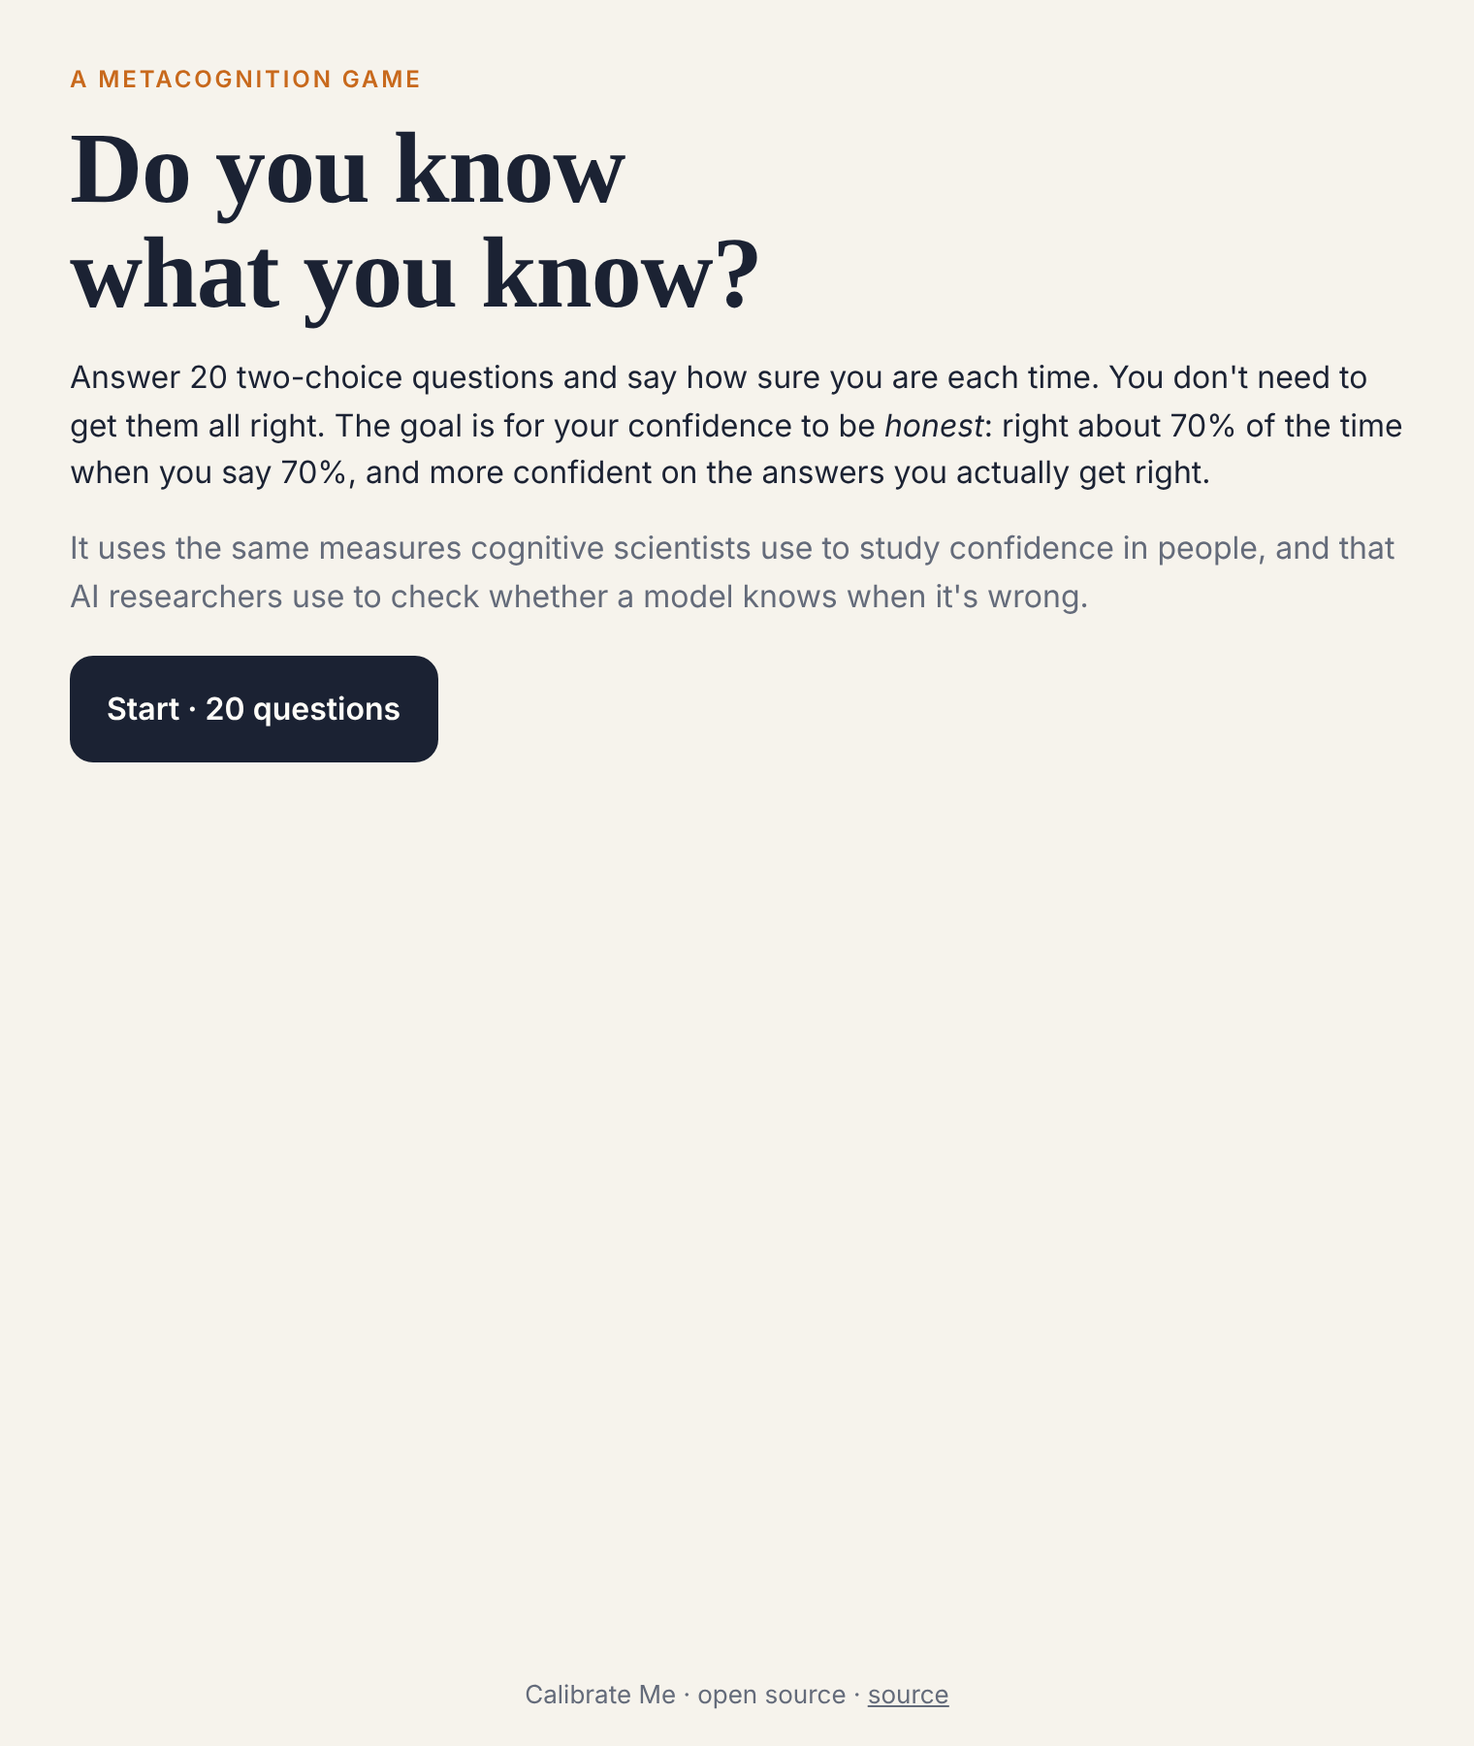
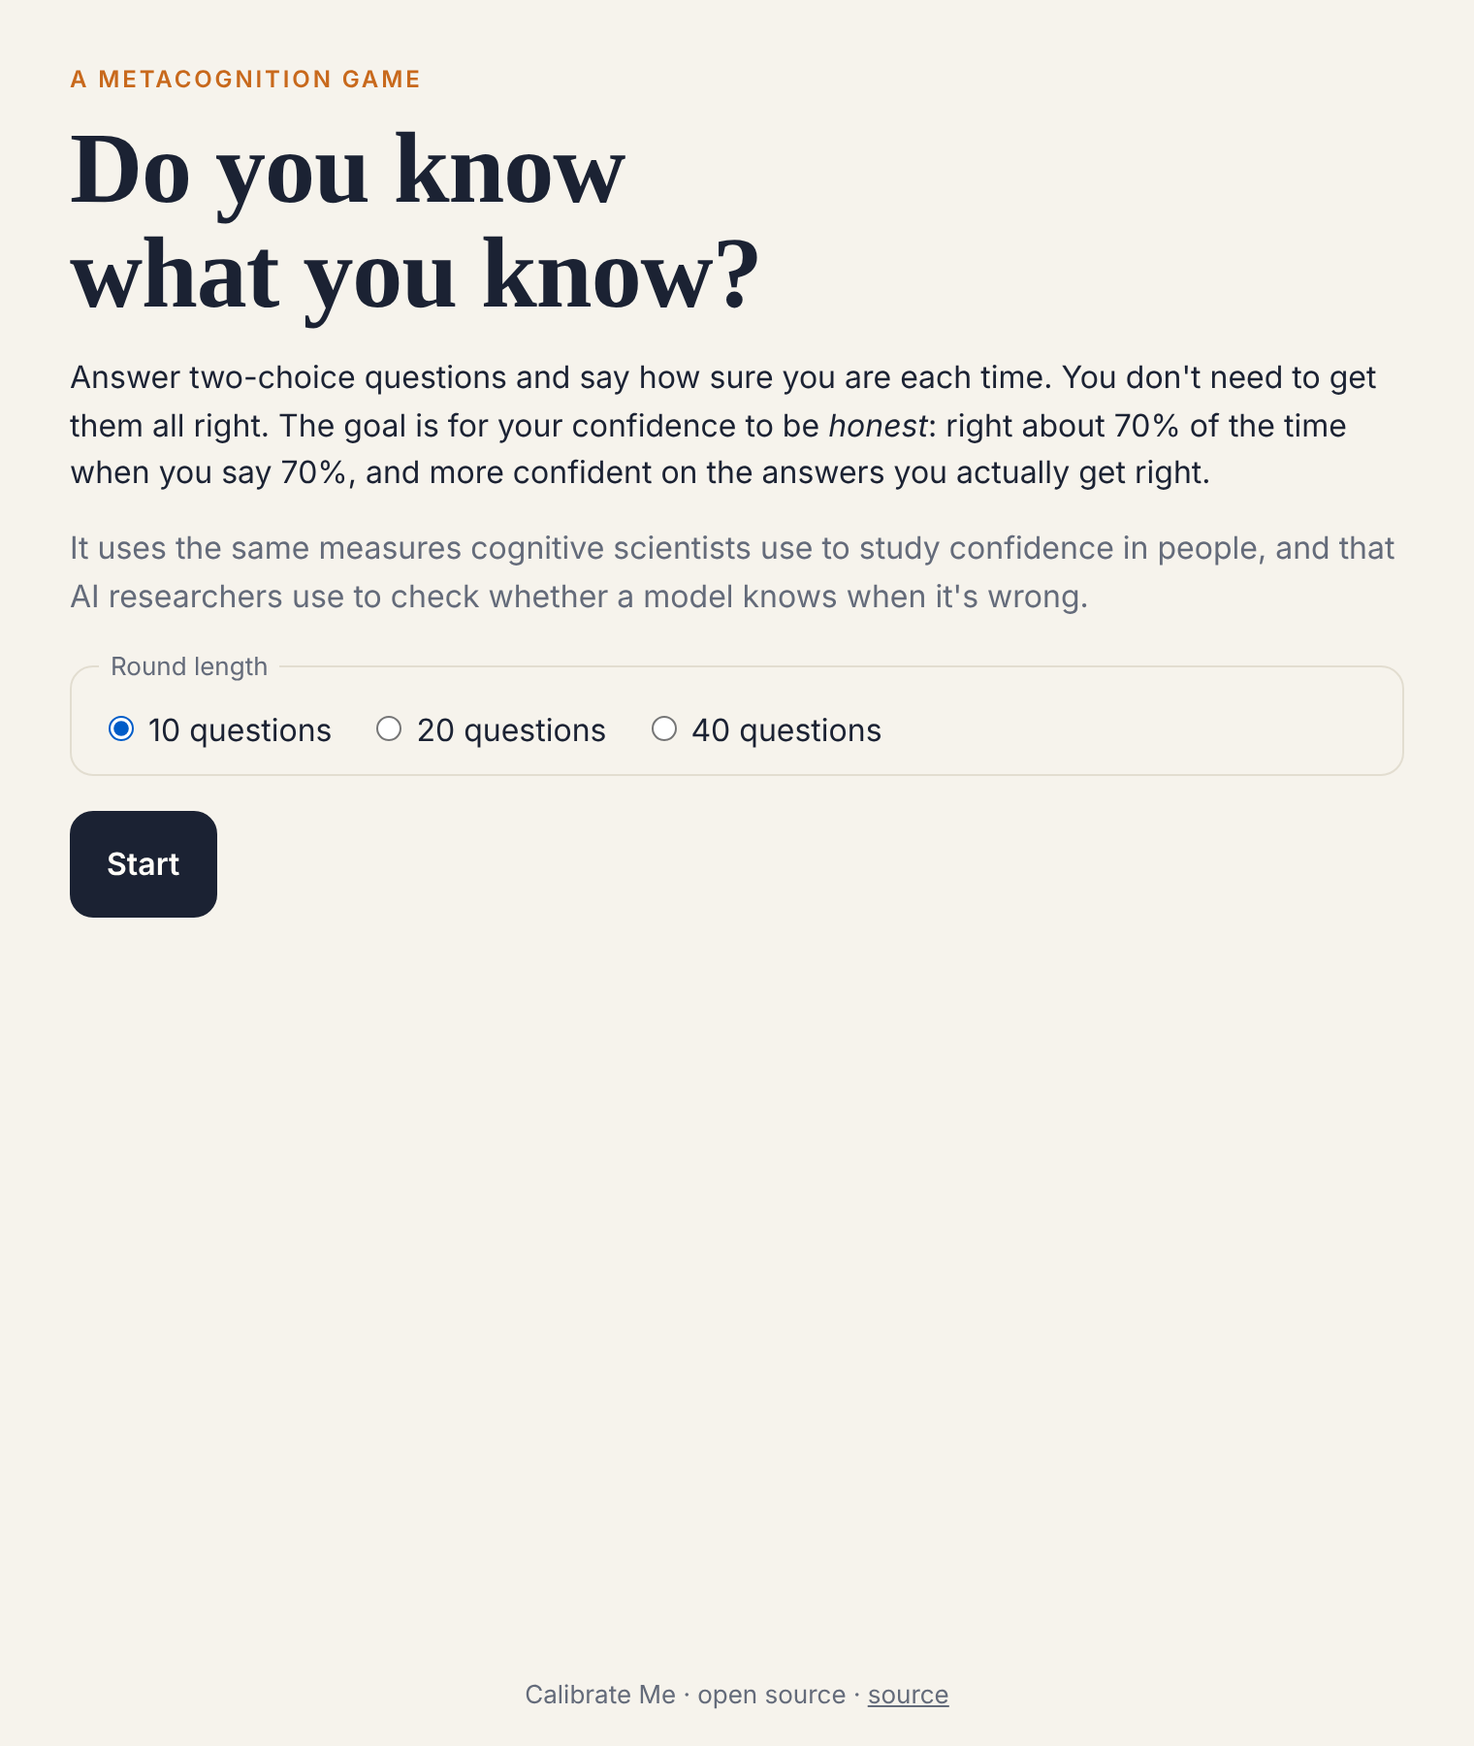
v0.2.0: new features and open-source project setup
Adds contributor guide, code of conduct, security policy, changelog,
citation file, issue and PR templates, linting and coverage in CI,
and the features listed in CHANGELOG.md.

Claude-Session: https://claude.ai/code/session_01NwVeTdaZV4hN2db4qB14kY

Changed region(s): [[0.0618, 0.1867, 0.9586, 0.2489], [0.0309, 0.3733, 0.402, 0.5289], [0.4638, 0.4044, 0.5875, 0.4356]]

diff --git a/app.js b/app.js
@@ -1,7 +1,9 @@
 import { QUESTIONS } from "./questions.js";
+import { decodeResult, encodeResult } from "./share.js";
 import { summarize, verdict } from "./stats.js";
 
-const ROUNDS = 20;
+const ROUND_OPTIONS = [10, 20, 40];
+let rounds = 20;
 const LEVELS = [0.5, 0.6, 0.7, 0.8, 0.9, 0.99];
 const STORE_KEY = "calibrate-me:sessions:v1";
 const app = document.getElementById("app");
@@ -46,20 +48,25 @@ function intro() {
   app.innerHTML = `
     <div class="kicker">A metacognition game</div>
     <h1>Do you know<br>what you know?</h1>
-    <p>Answer ${ROUNDS} two-choice questions and say how sure you are each time. You don't need to get them all right.
+    <p>Answer two-choice questions and say how sure you are each time. You don't need to get them all right.
        The goal is for your confidence to be <em>honest</em>: right about 70% of the time when you say 70%,
        and more confident on the answers you actually get right.</p>
     <p class="muted">It uses the same measures cognitive scientists use to study confidence in people, and that AI researchers use to check whether a model knows when it's wrong.</p>
-    <div class="actions"><button class="primary" id="start">Start · ${ROUNDS} questions</button></div>
+    <fieldset class="rounds"><legend>Round length</legend>
+      ${ROUND_OPTIONS.map((n) => `<label><input type="radio" name="rounds" value="${n}" ${n === rounds ? "checked" : ""}> ${n} questions</label>`).join("")}
+    </fieldset>
+    <div class="actions"><button class="primary" id="start">Start</button></div>
     ${last ? `<p class="muted" style="margin-top:18px">Last time: ${pct(last.accuracy)} correct, ${
       last.overconfidence > 0 ? "overconfident" : "underconfident"} by ${Math.round(Math.abs(last.overconfidence) * 100)} points
       (${sessions.length} session${sessions.length > 1 ? "s" : ""} on this device).</p>` : ""}`;
+  app.querySelectorAll('input[name="rounds"]').forEach((r) => (r.onchange = () => (rounds = +r.value)));
   document.getElementById("start").onclick = start;
 }
 
 function start() {
   state = {
-    items: shuffle(QUESTIONS).slice(0, ROUNDS).map(([q, a, b, correct, why]) => {
+    rounds,
+    items: shuffle(QUESTIONS).slice(0, rounds).map(([q, a, b, correct, why]) => {
       const flip = Math.random() < 0.5; // randomize option order
       return { q, options: flip ? [b, a] : [a, b], correct: flip ? 1 - correct : correct, why };
     }),
@@ -76,31 +83,32 @@ function question() {
   const answered = state.revealed;
   const t = state.trials[state.i];
   app.innerHTML = `
-    <div class="progress"><div style="width:${(state.i / ROUNDS) * 100}%"></div></div>
-    <div class="qmeta"><span>Question ${state.i + 1} of ${ROUNDS}</span><span class="mono">keys: A / B, then 1–6</span></div>
-    <div class="question">${esc(it.q)}</div>
-    <div class="options">
+    <div class="progress"><div style="width:${(state.i / state.rounds) * 100}%"></div></div>
+    <div class="qmeta"><span>Question ${state.i + 1} of ${state.rounds}</span><span class="mono">keys: A / B, then 1–6</span></div>
+    <h2 class="question" id="q" tabindex="-1">${esc(it.q)}</h2>
+    <div class="options" role="group" aria-labelledby="q">
       ${it.options.map((o, k) => {
         let cls = state.choice === k ? "chosen" : "";
         if (answered) cls = k === it.correct ? "right" : state.choice === k ? "wrong" : "";
-        return `<button data-opt="${k}" class="${cls}" ${answered ? "disabled" : ""}><span class="key">${"AB"[k]}</span>${esc(o)}</button>`;
+        return `<button data-opt="${k}" class="${cls}" aria-pressed="${state.choice === k}" ${answered ? "disabled" : ""}><span class="key">${"AB"[k]}</span>${esc(o)}</button>`;
       }).join("")}
     </div>
     ${!answered ? `
     <div class="conf" ${state.choice === null ? 'style="opacity:.4"' : ""}>
       <div class="conf-label">How sure are you?</div>
-      <div class="conf-row">${LEVELS.map((l, k) => `<button data-conf="${k}" ${state.choice === null ? "disabled" : ""}>${Math.round(l * 100)}%</button>`).join("")}</div>
+      <div class="conf-row" role="group" aria-label="How sure are you?">${LEVELS.map((l, k) => `<button data-conf="${k}" ${state.choice === null ? "disabled" : ""}>${Math.round(l * 100)}%</button>`).join("")}</div>
       <div class="conf-ends"><span>pure guess</span><span>certain</span></div>
     </div>` : `
     <div class="feedback">
-      <strong class="${t.correct ? "good" : "bad"}">${t.correct ? "Correct" : "Not quite"}</strong>
+      <strong role="status" class="${t.correct ? "good" : "bad"}">${t.correct ? "Correct" : "Not quite"}</strong>
       <span class="muted"> · you said ${Math.round(t.confidence * 100)}%</span>
       <div style="margin-top:6px">${esc(it.why)}</div>
     </div>
-    <div class="actions"><button class="primary" id="next">${state.i + 1 === ROUNDS ? "See results" : "Next"}</button></div>`}`;
+    <div class="actions"><button class="primary" id="next">${state.i + 1 === state.rounds ? "See results" : "Next"}</button></div>`}`;
 
   app.querySelectorAll("[data-opt]").forEach((b) => (b.onclick = () => choose(+b.dataset.opt)));
   app.querySelectorAll("[data-conf]").forEach((b) => (b.onclick = () => commit(LEVELS[+b.dataset.conf])));
+  if (!answered && state.choice === null) document.getElementById("q").focus({ preventScroll: true });
   const next = document.getElementById("next");
   if (next) {
     next.onclick = advance;
@@ -127,12 +135,12 @@ function advance() {
   state.i += 1;
   state.choice = null;
   state.revealed = false;
-  if (state.i >= ROUNDS) results();
+  if (state.i >= state.rounds) results();
   else question();
 }
 
 document.addEventListener("keydown", (e) => {
-  if (!state || state.i >= ROUNDS) return;
+  if (!state || state.i >= state.rounds) return;
   const k = e.key.toLowerCase();
   if (!state.revealed && (k === "a" || k === "b")) choose(k === "a" ? 0 : 1);
   else if (!state.revealed && /^[1-6]$/.test(k)) commit(LEVELS[+k - 1]);
@@ -203,12 +211,48 @@ function results() {
       (type-2 AUROC, also called metacognitive sensitivity) asks whether you were more confident on the answers you got right than on the ones you got wrong.
       You can be perfectly calibrated with no discrimination at all, by saying 70% on everything when you get 70% right. Good judgment needs both.</p>
       <p>These are the same measures used to study confidence in people and to check whether AI models know when they're wrong.
-      With ${ROUNDS} questions they're rough; play a few rounds to see a trend.</p>
+      With ${state.rounds} questions they're rough; play a few rounds to see a trend.</p>
       <p>Reliability ${num(s.reliability, 3)} · resolution ${num(s.resolution, 3)} · uncertainty ${num(s.uncertainty, 3)} (Murphy decomposition of the Brier score).</p>
     </details>
-    <div class="actions"><button class="primary" id="again">Play again</button><button id="home">Home</button></div>`;
+    <div class="actions"><button class="primary" id="again">Play again</button><button id="share">Copy share link</button><button id="home">Home</button></div>
+    <p class="muted" id="share-note" style="font-size:13px"></p>`;
+  document.getElementById("share").onclick = () => share(s);
   document.getElementById("again").onclick = start;
   document.getElementById("home").onclick = () => { state = null; intro(); };
 }
 
-intro();
+function shareUrl(s) {
+  return `${location.origin}${location.pathname}#r=${encodeResult(s)}`;
+}
+
+async function share(s) {
+  const url = shareUrl(s);
+  const note = document.getElementById("share-note");
+  try {
+    await navigator.clipboard.writeText(url);
+    note.textContent = "Link copied. It contains only your scores, not your answers.";
+  } catch {
+    note.innerHTML = `Copy this link: <input readonly value="${esc(url)}" style="width:100%" onfocus="this.select()">`;
+  }
+}
+
+function sharedView(s) {
+  app.innerHTML = `
+    <div class="kicker">A shared result</div>
+    <h2>${esc(verdict(s))}</h2>
+    <div class="stats">
+      <div class="stat"><div class="v">${pct(s.accuracy)}</div><div class="k">Accuracy</div><div class="h">over ${s.n} questions</div></div>
+      <div class="stat"><div class="v">${s.overconfidence >= 0 ? "+" : ""}${Math.round(s.overconfidence * 100)}</div><div class="k">Overconfidence</div><div class="h">confidence minus accuracy</div></div>
+      <div class="stat"><div class="v">${num(s.auroc2)}</div><div class="k">Discrimination</div><div class="h">type-2 AUROC</div></div>
+    </div>
+    <div class="panel">${calibrationChart(s.table)}</div>
+    <div class="actions"><button class="primary" id="try">Can you beat it? Play now</button></div>`;
+  document.getElementById("try").onclick = () => {
+    history.replaceState(null, "", location.pathname);
+    intro();
+  };
+}
+
+const sharedResult = location.hash.startsWith("#r=") ? decodeResult(location.hash.slice(3)) : null;
+if (sharedResult) sharedView(sharedResult);
+else intro();

diff --git a/share.js b/share.js
@@ -1,0 +1,56 @@
+// Encode a result summary into a URL fragment and back. Only aggregate scores
+// are included (no answers, no questions, nothing about the player), and the
+// fragment never reaches a server.
+
+const b64url = {
+  encode(str) {
+    const bytes = new TextEncoder().encode(str);
+    let bin = "";
+    for (const b of bytes) bin += String.fromCharCode(b);
+    return btoa(bin).replace(/\+/g, "-").replace(/\//g, "_").replace(/=+$/, "");
+  },
+  decode(s) {
+    const pad = s.replace(/-/g, "+").replace(/_/g, "/") + "===".slice((s.length + 3) % 4);
+    const bin = atob(pad);
+    return new TextDecoder().decode(Uint8Array.from(bin, (c) => c.charCodeAt(0)));
+  },
+};
+
+const r3 = (v) => (Number.isFinite(v) ? Math.round(v * 1000) / 1000 : null);
+
+export function encodeResult(s) {
+  const payload = {
+    v: 1,
+    n: s.n,
+    a: r3(s.accuracy),
+    c: r3(s.meanConfidence),
+    d: r3(s.auroc2),
+    b: r3(s.brier),
+    t: s.table.map((g) => [Math.round(g.confidence * 100), g.n, g.correct]),
+  };
+  return b64url.encode(JSON.stringify(payload));
+}
+
+export function decodeResult(str) {
+  let p;
+  try {
+    p = JSON.parse(b64url.decode(str));
+  } catch {
+    return null;
+  }
+  const isNum = (x) => typeof x === "number" && Number.isFinite(x);
+  if (!p || p.v !== 1 || !isNum(p.n) || p.n < 1 || p.n > 200 || !Array.isArray(p.t)) return null;
+  for (const k of ["a", "c", "b"]) if (!isNum(p[k]) || p[k] < 0 || p[k] > 1) return null;
+  if (p.d !== null && (!isNum(p.d) || p.d < 0 || p.d > 1)) return null;
+  const table = [];
+  for (const row of p.t.slice(0, 20)) {
+    if (!Array.isArray(row) || row.length !== 3 || !row.every(isNum)) return null;
+    const [conf, n, correct] = row;
+    if (conf < 50 || conf > 100 || n < 1 || correct < 0 || correct > n) return null;
+    table.push({ confidence: conf / 100, n, correct, accuracy: correct / n });
+  }
+  return {
+    n: p.n, accuracy: p.a, meanConfidence: p.c, overconfidence: p.c - p.a,
+    auroc2: p.d === null ? NaN : p.d, brier: p.b, table,
+  };
+}

diff --git a/style.css b/style.css
@@ -49,7 +49,7 @@ button[disabled] { opacity: .45; cursor: default; }
 .progress { height: 4px; background: var(--line); border-radius: 4px; overflow: hidden; margin-bottom: 22px; }
 .progress > div { height: 100%; background: var(--accent); transition: width .25s; }
 .qmeta { display: flex; justify-content: space-between; color: var(--muted); font-size: 13px; margin-bottom: 8px; }
-.question { font-family: Fraunces, Georgia, serif; font-size: clamp(22px, 4.5vw, 28px); line-height: 1.25; margin: 6px 0 20px; }
+.question { outline: none; font-weight: 600; font-family: Fraunces, Georgia, serif; font-size: clamp(22px, 4.5vw, 28px); line-height: 1.25; margin: 6px 0 20px; }
 .options { display: grid; grid-template-columns: 1fr 1fr; gap: 12px; }
 @media (max-width: 520px) { .options { grid-template-columns: 1fr; } }
 .options button { text-align: left; min-height: 72px; font-size: 17px; }
@@ -80,3 +80,8 @@ button[disabled] { opacity: .45; cursor: default; }
 .explain { font-size: 14px; color: var(--muted); }
 .explain summary { cursor: pointer; color: var(--ink); font-weight: 500; }
 .grid2 { display: grid; gap: 16px; }
+
+.rounds { border: 1px solid var(--line); border-radius: 12px; padding: 10px 14px; margin: 6px 0 4px; display: flex; gap: 18px; flex-wrap: wrap; }
+.rounds legend { font-size: 13px; color: var(--muted); padding: 0 6px; }
+.rounds label { cursor: pointer; }
+@media (prefers-reduced-motion: reduce) { * { transition: none !important; } }

diff --git a/README.md b/README.md
@@ -31,7 +31,13 @@ These are the same measures cognitive scientists use to study confidence in peop
 
 You can be perfectly calibrated with zero discrimination: say 70% on everything when you get 70% right. Good judgment needs both, which is why both are shown.
 
-Sessions are saved in your browser only (localStorage), so you can see your overconfidence trend across rounds. Nothing is sent anywhere.
+## Features
+
+* **Round length:** 10, 20 or 40 questions. Longer rounds give steadier scores.
+* **Share links:** "Copy share link" encodes only your aggregate scores into the link (no answers, no questions, nothing about you). Anyone who opens it sees your calibration chart and a "Can you beat it?" button. The data sits in the URL fragment, which browsers never send to a server.
+* **History:** sessions are saved in your browser only (localStorage), so you can watch your overconfidence trend across rounds.
+* **Keyboard and screen readers:** play entirely with A/B and 1-6, with labeled answer groups, pressed states, focus moved to each new question, results announced, and reduced motion respected.
+* **No tracking and no backend:** a static page with nothing sent anywhere.
 
 ## Use in a classroom
 
@@ -57,7 +63,7 @@ Tests (Node 20+):
 npm test
 ```
 
-The tests cover the scoring math (including that the Murphy decomposition adds back up to the Brier score) and check the question bank for malformed or duplicate rows.
+The tests cover the scoring math (including that the Murphy decomposition adds back up to the Brier score), share-link encoding (round trips, URL safety, and rejection of tampered links), and the question bank for malformed or duplicate rows.
 
 ## Adding questions
 
@@ -66,6 +72,10 @@ Questions live in `questions.js` as `[question, optionA, optionB, correctIndex, 
 ## Why I built this
 
 My research is on calibration in language models: whether a model's confidence matches its accuracy and whether it can tell its right answers from its wrong ones. I run AI literacy workshops for high school students, and explaining calibration in the abstract never landed. Letting people measure their own confidence first, then asking whether a chatbot's confidence deserves more trust, works much better. The metrics here are the same ones I use on models.
+
+## Contributing
+
+Issues and pull requests are welcome. See [CONTRIBUTING.md](CONTRIBUTING.md) for setup and ideas to start with, [CHANGELOG.md](CHANGELOG.md) for what's new, and [SECURITY.md](SECURITY.md) to report a problem privately.
 
 ## License
 

diff --git a/CONTRIBUTING.md b/CONTRIBUTING.md
@@ -1,0 +1,31 @@
+# Contributing to calibrate-me
+
+Thanks for your interest in improving calibrate-me. Bug reports, ideas, documentation fixes and code are all welcome.
+
+## Getting set up
+
+```bash
+git clone https://github.com/kishoren18-hue/calibrate-me
+cd calibrate-me
+python3 -m http.server 8000     # then open http://localhost:8000
+npm test                        # Node 20+
+```
+
+## Making a change
+
+1. Open an issue first for anything larger than a small fix, so we can agree on the approach.
+2. Create a branch, make the change, and add or update tests.
+3. Keep pull requests focused on one thing; describe what changed and why.
+4. Make sure the checks above pass, then open a pull request.
+
+Good tests matter more than clever code here. A bug fix should come with a test that fails without the fix.
+
+## Ideas to start with
+
+* Add 20 more counterintuitive questions (with sources)
+* Category filter (science, history, geography)
+* Translate the interface
+
+## Code of conduct
+
+By participating you agree to follow the [code of conduct](CODE_OF_CONDUCT.md).

diff --git a/CHANGELOG.md b/CHANGELOG.md
@@ -1,0 +1,21 @@
+# Changelog
+
+All notable changes to this project are documented here. The format follows
+[Keep a Changelog](https://keepachangelog.com/en/1.1.0/), and versions follow
+[Semantic Versioning](https://semver.org/).
+
+## [0.2.0] - 2026-11-04
+
+### Added
+
+- Round lengths of 10, 20 or 40 questions
+- Share links that carry only aggregate scores, plus a shared-result view
+- Accessibility: labeled groups, pressed states, focus management, reduced motion
+- Contributor docs and issue templates
+
+## [0.1.0] - 2026-11-04
+
+### Added
+
+- Two-choice questions with confidence ratings, calibration chart, type-2 AUROC, Brier decomposition
+- Per-browser history; deployed with GitHub Pages

diff --git a/CODE_OF_CONDUCT.md b/CODE_OF_CONDUCT.md
@@ -1,0 +1,7 @@
+# Code of conduct
+
+This project follows the [Contributor Covenant, version 2.1](https://www.contributor-covenant.org/version/2/1/code_of_conduct/).
+
+In short: be respectful, assume good intent, welcome newcomers, and keep discussion focused on the work. Harassment, personal attacks and discriminatory language are not acceptable in issues, pull requests or any other project space.
+
+To report a problem, contact the maintainer, [@kishoren18-hue](https://github.com/kishoren18-hue), privately. Reports are handled confidentially, and the maintainer may remove content or block participants who don't follow these guidelines.

diff --git a/SECURITY.md b/SECURITY.md
@@ -1,0 +1,13 @@
+# Security policy
+
+## Reporting a vulnerability
+
+Please don't open a public issue for security problems. Use GitHub's private reporting instead:
+go to the **Security** tab of this repository and choose **Report a vulnerability**.
+
+You can expect an acknowledgement within a few days. Once a fix is ready, it will be released and
+the report credited unless you prefer otherwise.
+
+## Supported versions
+
+Only the latest release receives fixes.

diff --git a/.github/PULL_REQUEST_TEMPLATE.md b/.github/PULL_REQUEST_TEMPLATE.md
@@ -1,0 +1,9 @@
+## What does this change?
+
+## Why?
+
+## How was it tested?
+
+- [ ] Tests added or updated
+- [ ] Checks pass locally
+- [ ] Docs / README / CHANGELOG updated if behavior changed
